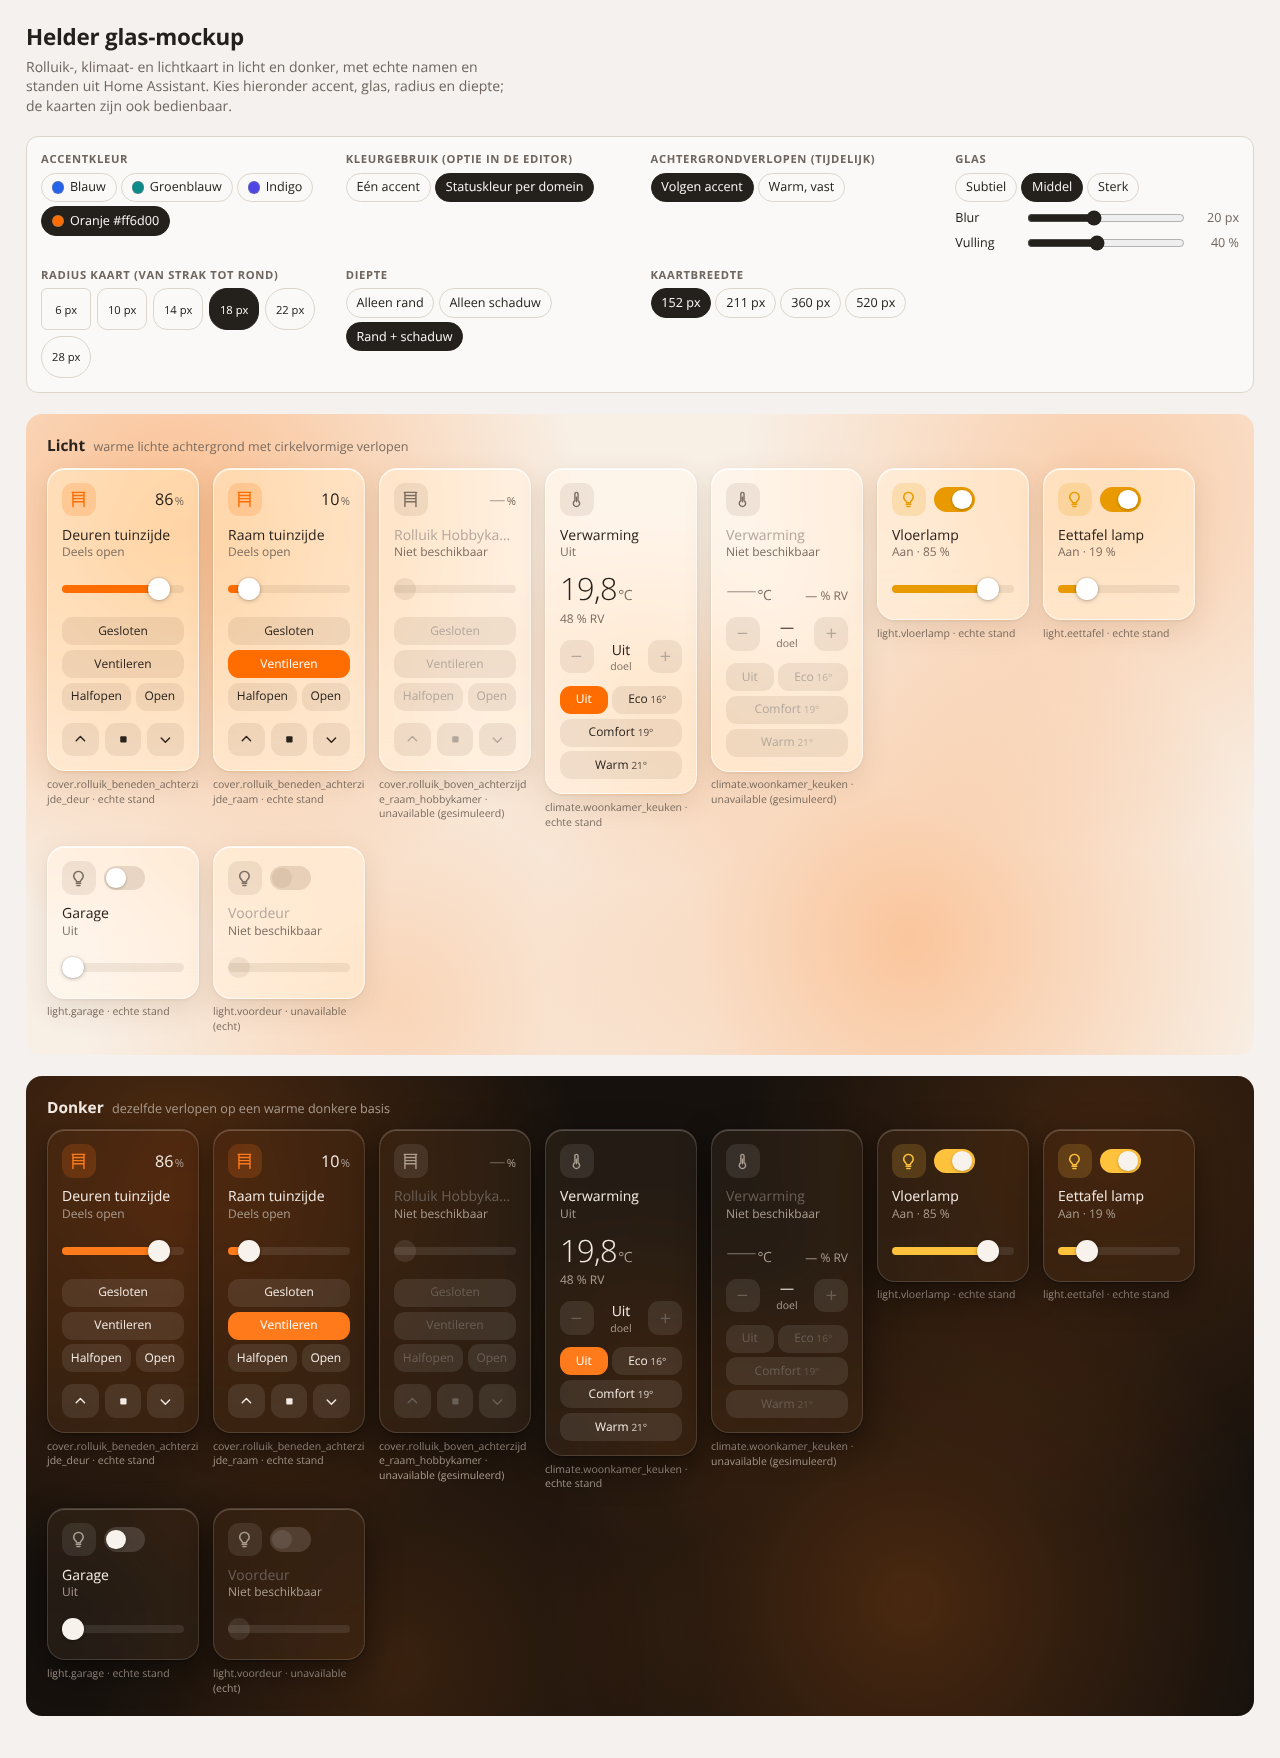
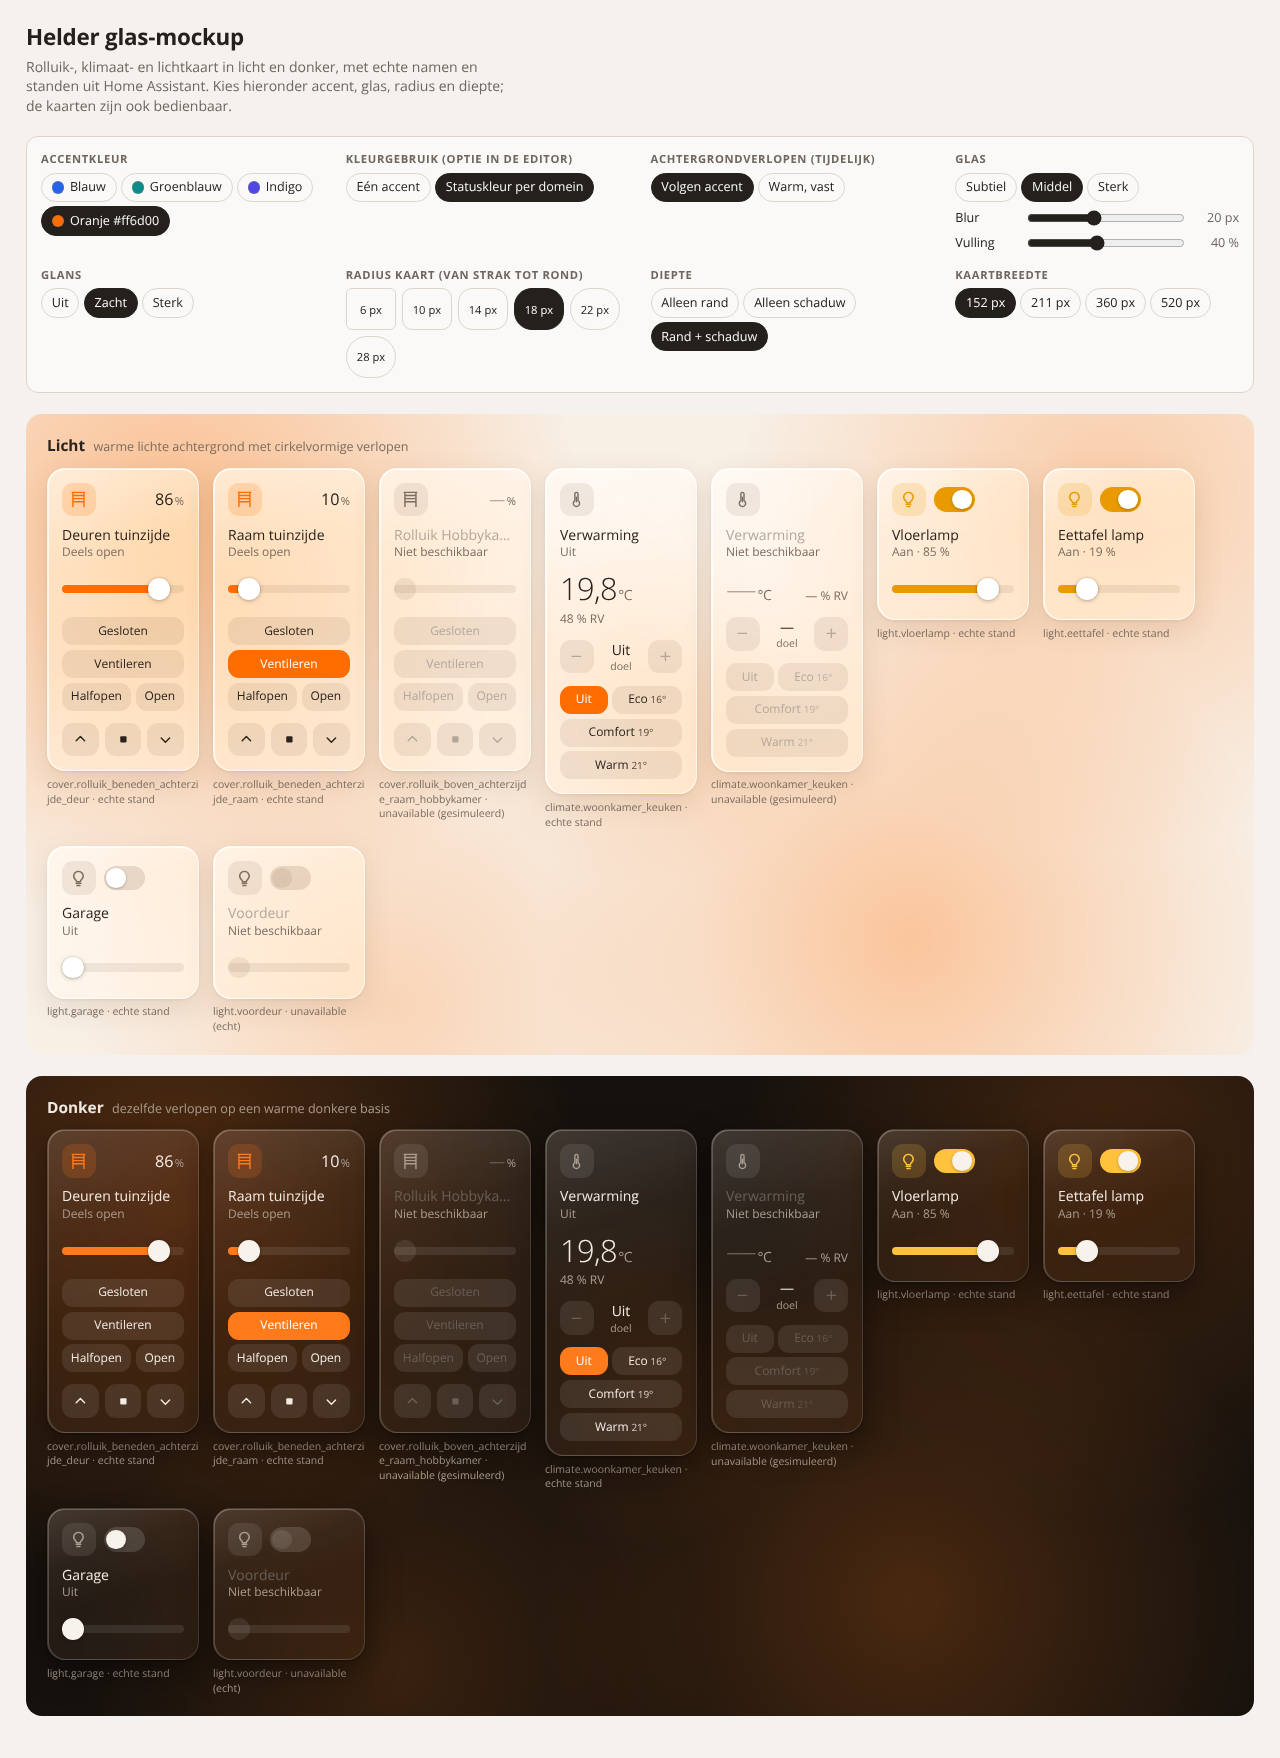
mockup: add gloss layer with off/soft/strong option
Claude-Session: https://claude.ai/code/session_0188TZibxehgLpvZx4MTqWFe

diff --git a/mockup/glass.html b/mockup/glass.html
@@ -189,10 +189,13 @@ header p { margin: .3rem 0 0; color: var(--page-muted); max-width: 60ch; }
   --helder-radius-card: var(--r);
   --helder-radius-control: calc(var(--r) * .5 + 2px);
   --helder-space: 1rem;
+  --gloss: .45;
 }
-[data-depth="border"] .stage { --helder-card-shadow: inset 0 1px 0 var(--helder-glass-highlight); --helder-card-border: var(--helder-glass-border); }
+.stage[data-mode="light"] { --helder-gloss: var(--gloss); --helder-gloss-edge: rgba(255, 255, 255, calc(var(--gloss) * 1.6)); }
+.stage[data-mode="dark"]  { --helder-gloss: calc(var(--gloss) * .28); --helder-gloss-edge: rgba(255, 255, 255, calc(var(--gloss) * .45)); }
+[data-depth="border"] .stage { --helder-card-shadow: inset 0 1px 0 var(--helder-glass-highlight), inset 1px 0 0 var(--helder-gloss-edge); --helder-card-border: var(--helder-glass-border); }
 [data-depth="shadow"] .stage { --helder-card-shadow: var(--helder-shadow-card); --helder-card-border: transparent; }
-[data-depth="both"]   .stage { --helder-card-shadow: inset 0 1px 0 var(--helder-glass-highlight), var(--helder-shadow-card); --helder-card-border: var(--helder-glass-border); }
+[data-depth="both"]   .stage { --helder-card-shadow: inset 0 1px 0 var(--helder-glass-highlight), inset 1px 0 0 var(--helder-gloss-edge), var(--helder-shadow-card); --helder-card-border: var(--helder-glass-border); }
 
 .cards { display: flex; flex-wrap: wrap; gap: 1.2rem 1rem; align-items: flex-start; }
 figure { margin: 0; display: grid; gap: .4rem; width: var(--card-w, 211px); max-width: 100%; }
@@ -202,7 +205,10 @@ figcaption b { font-weight: 400; }
 /* ---------- Kaart ---------- */
 .card {
   container-type: inline-size;
-  background: var(--helder-glass-fill);
+  /* glans: diagonale lichtval bovenaan + glasvulling */
+  background:
+    linear-gradient(160deg, rgba(255, 255, 255, var(--helder-gloss)) 0%, rgba(255, 255, 255, calc(var(--helder-gloss) * .25)) 30%, rgba(255, 255, 255, 0) 55%),
+    linear-gradient(var(--helder-glass-fill), var(--helder-glass-fill));
   -webkit-backdrop-filter: blur(var(--helder-glass-blur)) saturate(170%);
   backdrop-filter: blur(var(--helder-glass-blur)) saturate(170%);
   border: 1px solid var(--helder-card-border);
@@ -342,6 +348,14 @@ figcaption b { font-weight: 400; }
       </div>
       <label class="rngrow" for="blur">Blur <input class="rng" id="blur" type="range" min="0" max="48" step="1"><output id="blurOut"></output></label>
       <label class="rngrow" for="fill">Vulling <input class="rng" id="fill" type="range" min="5" max="85" step="1"><output id="fillOut"></output></label>
+    </div>
+    <div class="ctl">
+      <span class="lbl">Glans</span>
+      <div class="seg" data-set="gloss">
+        <button data-v="0">Uit</button>
+        <button data-v="0.45">Zacht</button>
+        <button data-v="0.75">Sterk</button>
+      </div>
     </div>
     <div class="ctl">
       <span class="lbl">Radius kaart (van strak tot rond)</span>
@@ -505,7 +519,7 @@ figcaption b { font-weight: 400; }
   // ---------- Bedieningspaneel ----------
   const glassPresets = { subtle: [12, 55], medium: [20, 40], strong: [32, 25] };
   const radii = [6, 10, 14, 18, 22, 28];
-  const st = { accent: 'orange', colors: 'domain', glass: 'medium', blur: 20, fill: 40, radius: 18, depth: 'both', width: 211, bg: 'accent' };
+  const st = { accent: 'orange', colors: 'domain', glass: 'medium', blur: 20, fill: 40, radius: 18, depth: 'both', width: 211, bg: 'accent', gloss: 0.45 };
   try { Object.assign(st, JSON.parse(localStorage.getItem('helder-mockup') || '{}')); } catch (_) {}
 
   document.querySelector('[data-set="radius"]').innerHTML = radii.map(r => `<button data-v="${r}" style="--r:${r}px">${r} px</button>`).join('');
@@ -517,6 +531,7 @@ figcaption b { font-weight: 400; }
       s.el.style.setProperty('--glass-blur', st.blur + 'px');
       s.el.style.setProperty('--glass-alpha', st.fill / 100);
       s.el.style.setProperty('--r', st.radius + 'px');
+      s.el.style.setProperty('--gloss', st.gloss);
       s.el.style.setProperty('--card-w', st.width + 'px');
     });
     blur.value = st.blur; fill.value = st.fill;
@@ -531,7 +546,7 @@ figcaption b { font-weight: 400; }
   document.querySelectorAll('[data-set]').forEach(g => g.addEventListener('click', ev => {
     const b = ev.target.closest('button'); if (!b) return;
     const k = g.dataset.set, v = b.dataset.v;
-    st[k] = (k === 'radius' || k === 'width') ? +v : v;
+    st[k] = (k === 'radius' || k === 'width' || k === 'gloss') ? +v : v;
     if (k === 'glass') [st.blur, st.fill] = glassPresets[v];
     apply();
   }));
